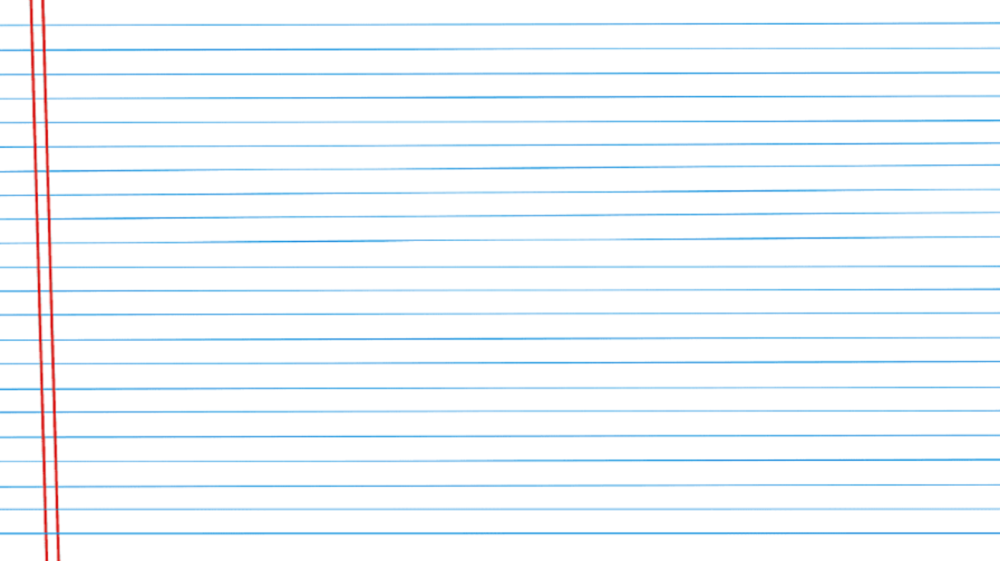
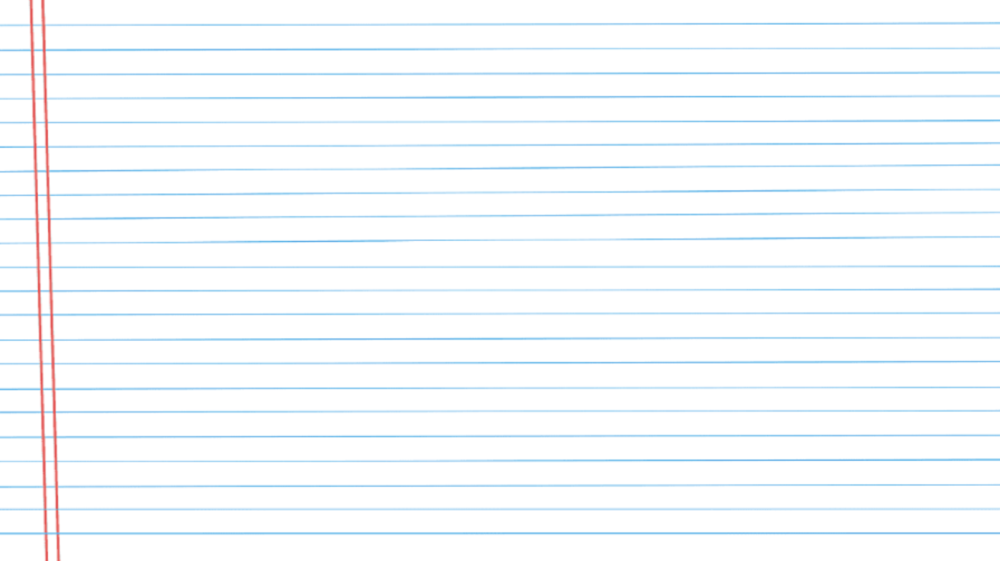
changes in background

diff --git a/src/components/Main.jsx b/src/components/Main.jsx
@@ -1,11 +1,17 @@
 import React from 'react'
-
+import gamess from '../assets/Gamess.png'
 export default function Main() {
   return (
-    <div className='bg-tertiary-pattern md:bg-secondary-pattern flex justify-center items-center'>
+    <div className='bg-tertiary-pattern md:bg-secondary-pattern flex justify-center flex-col  items-center'>
         <div className='bg-black opacity-90 rounded-lg mt-6 mb-6'>
-            <h3 className='font-bold text-2xl text-white p-2 '>Projects</h3>
+            <h3 className='font-bold text-2xl text-white p-3 tracking-wide  '>Projects</h3>
         </div>
+        <section className='w-fit flex flex-col justify-start'>
+          <div className='bg-black opacity-90 rounded-lg mt-6 mb-6'>
+                <h3 className='font-bold text-2xl text-white p-3 '>Gamess</h3>
+          </div>
+          <figure className='w-fit'><img className=' h-auto w-80 sm:w-[600px] lg:w-[800px]' src={gamess} alt="" /></figure>
+        </section>      
     </div>
   )
 }

diff --git a/src/components/Title.jsx b/src/components/Title.jsx
@@ -3,7 +3,7 @@ import React from 'react'
 export default function Title() {
   return (
     <section className='bg-hero-pattern flex justify-center items-center  pt-10 pb-10'>
-        <div className='bg-primary rounded-sm  w-fit sm:p-10 p5 flex justify-center items-center  flex-col '>
+        <div className='bg-primary rounded-sm  w-fit sm:p-10 px-2 py-4 flex justify-center items-center  flex-col '>
             <h1 className='text-3xl font-bold text-white opacity-90 tracking-wide mb-6 sm:text-4xl md:text-5xl '>Nicolas Meza</h1>
             <h2 className='font-light text-white opacity-90 text-lg text-center max-w-xs sm:text-2xl sm:max-w-sm  '>FullStack developer, passionate about technology, occasional writer.</h2>
         </div>

diff --git a/tailwind.config.js b/tailwind.config.js
@@ -19,7 +19,7 @@ export default {
       },
       backgroundImage: {
         'hero-pattern': "url('./src/assets/composition-book-cover-black-and-white-background-abstract-wallpaper-texture-or-pattern-grain-or-noise-marble-pattern-fabric-and-surface-wrapping-paper-flat-de.jpg')",
-        'secondary-pattern': "url('./src/assets/png-transparent-blue-lined-white-paper-desktop-notebook-notepad-mobile-phones-page-miscellaneous-angle-text.png')",
+        'secondary-pattern': "url('./src/assets/output-onlinepngtools.png')",
         'tertiary-pattern': "url('./src/assets/2.png')",
       }
     },
